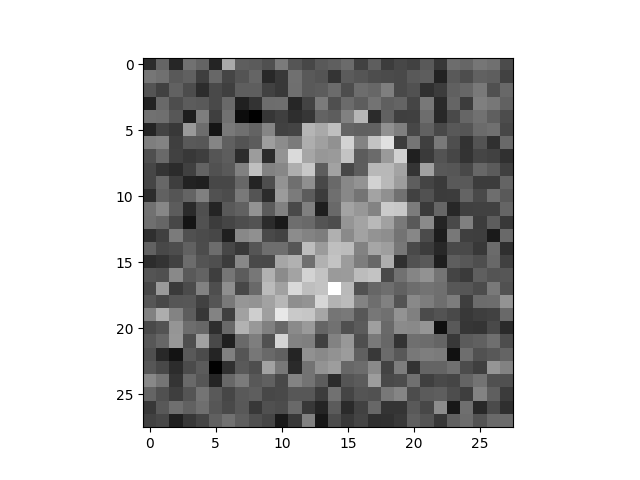
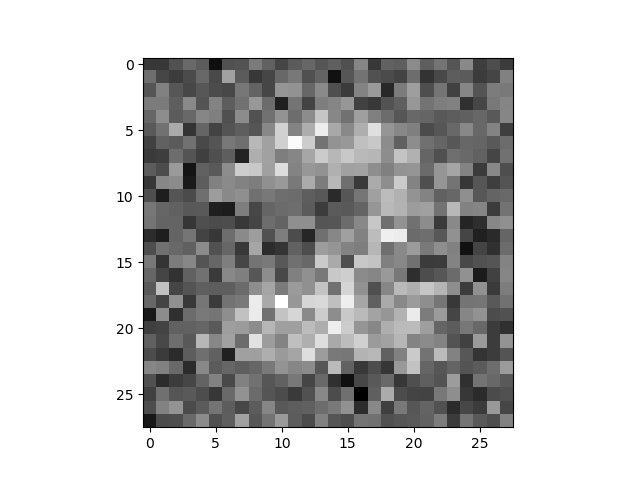
nothing

Changed region(s): [[0.2188, 0.125, 0.8125, 0.9375]]

diff --git a/gan_trying.py b/gan_trying.py
@@ -9,7 +9,7 @@ plt.ion()
 batch_size = 256
 g_dim = 128
 training_label = 2
-clip_range = 1000
+clip_range = 100000000000
 keep_rate = 0.5
 training_step = 1000000
 output_interval = 500
